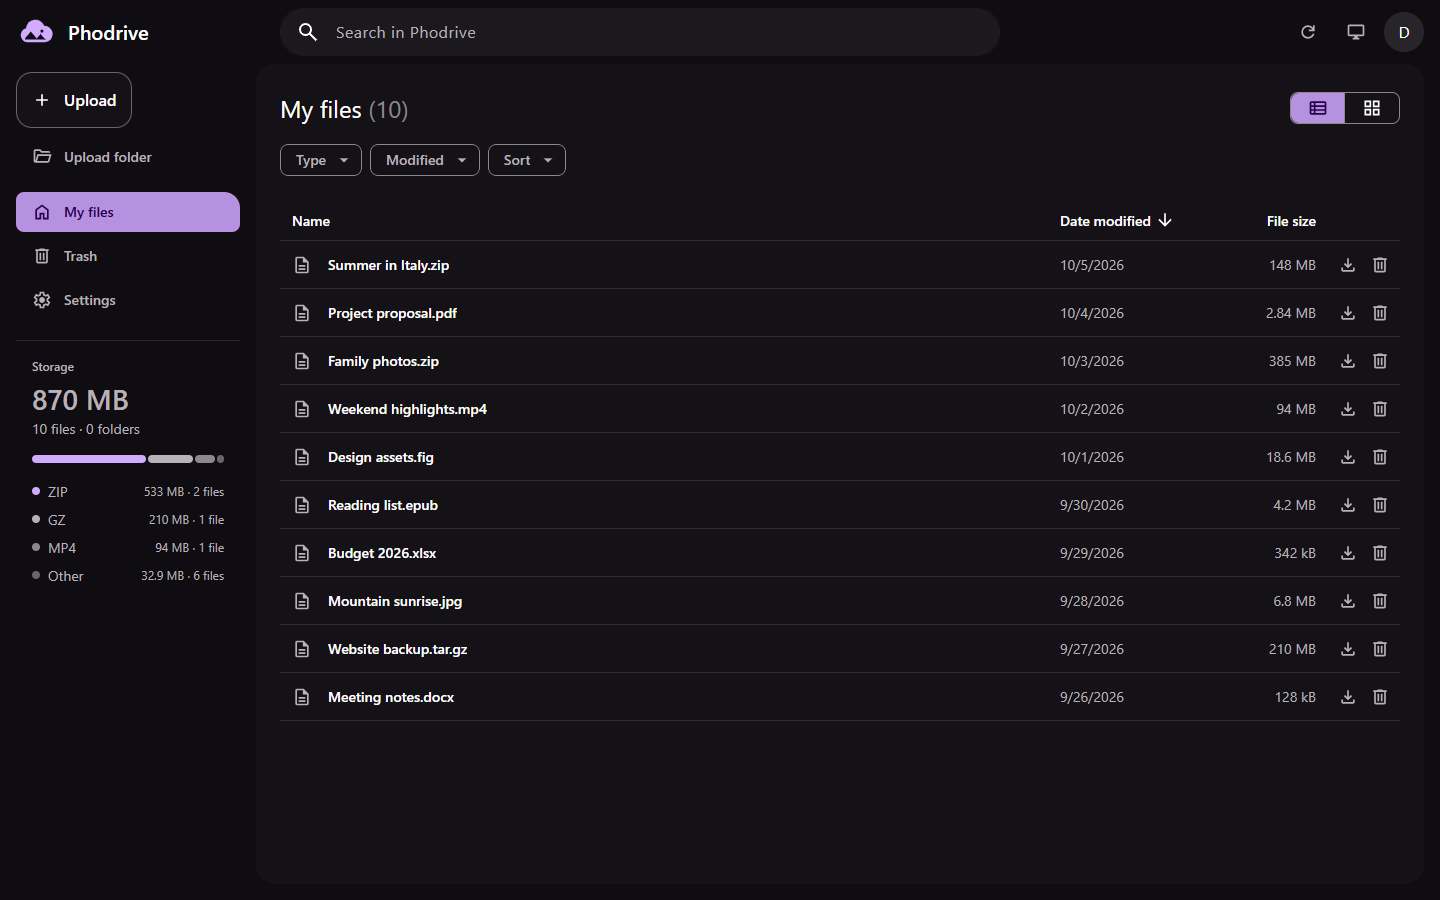
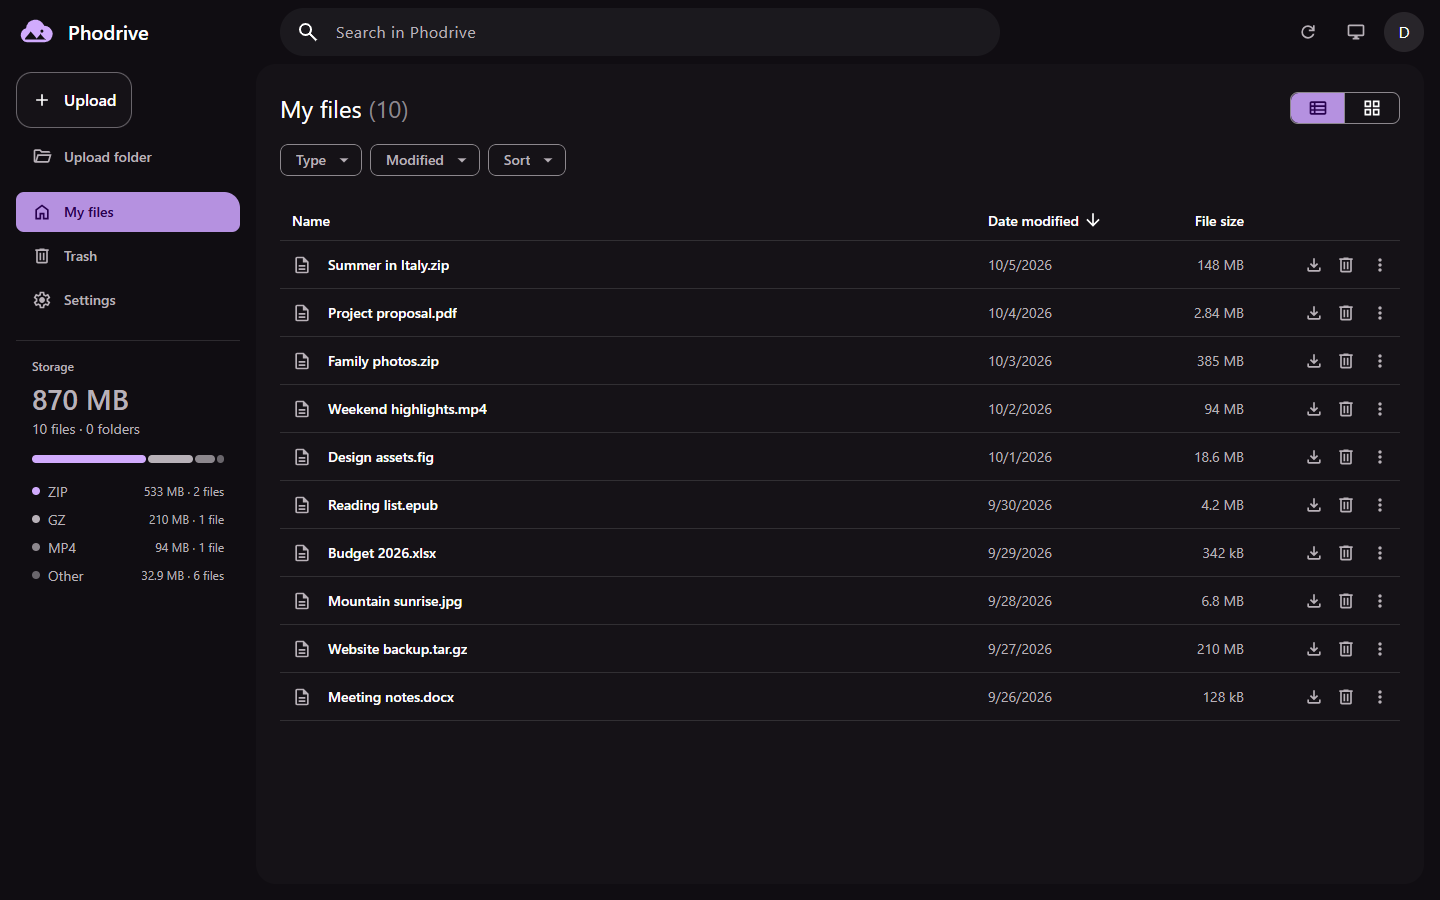
docs: show file actions and refresh screenshots

diff --git a/README.md b/README.md
@@ -135,6 +135,8 @@ The navigation sidebar totals My files: the original size of the loaded chunks, 
 
 Right-click a file or folder, press the context-menu key, or choose **More** to open its actions. File rows and cards keep their quick **Download** and **Delete** buttons, and Trash keeps **Restore** and **Delete forever**. On screens narrower than 800px, rows and cards show only **More**, and its menu carries the same actions. The menu adds **Rename**, **Move**, **Details**, and the folder actions **Move folder**, **Move contents to My files**, and **Delete folder and files**.
 
+![The file actions menu](./docs/screenshots/context-menu.png)
+
 Renames and moves are Phodrive listing metadata only. They are saved by the server and survive reloads, another browser using the same server, and a full index rebuild, but they do not change Google Photos item names, albums, or the names and folders stored in chunk headers. Downloads still return the original file. Renaming a folder changes its path prefix, including files in subfolders. A rename or move is rejected instead of merged when the destination already has that file name or folder, or when a folder would move into itself.
 
 **Delete folder and files** moves every file under the folder to Google Photos trash, including files that were not loaded on the page. The confirmation shows how many loaded files will move, and every file under the folder is included. Files can be restored from Trash. A partly trashed file keeps the chunks that are still active. With a group selected, each change goes to the account that owns the file or folder, and failures from one member are reported without changing the others.
